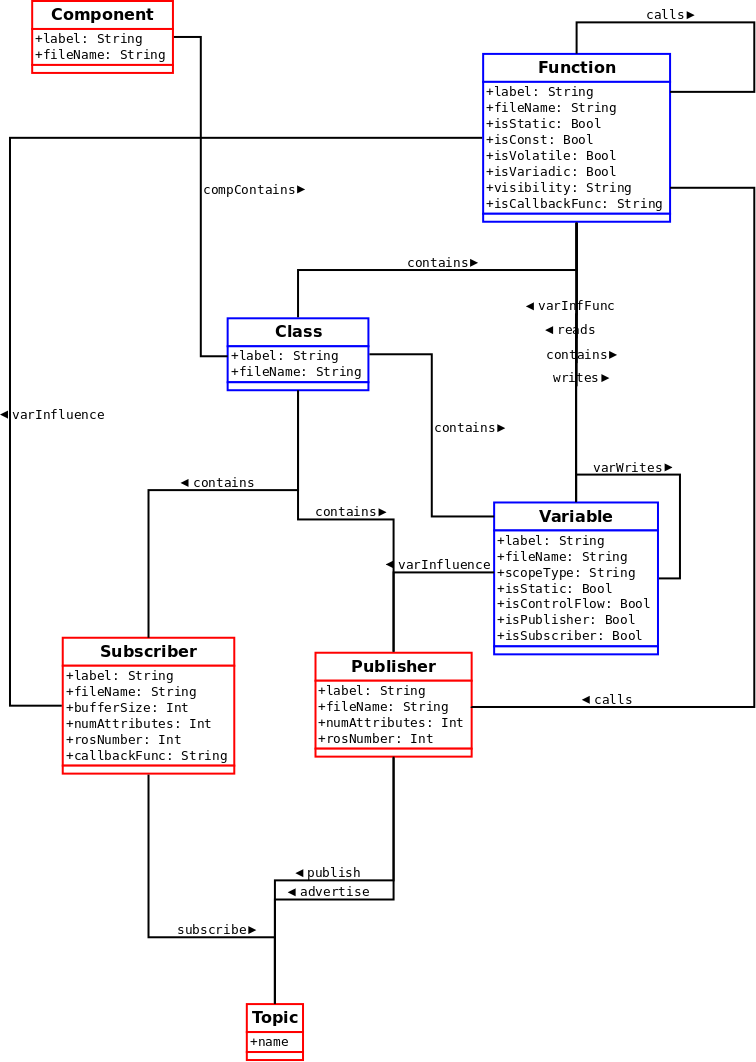
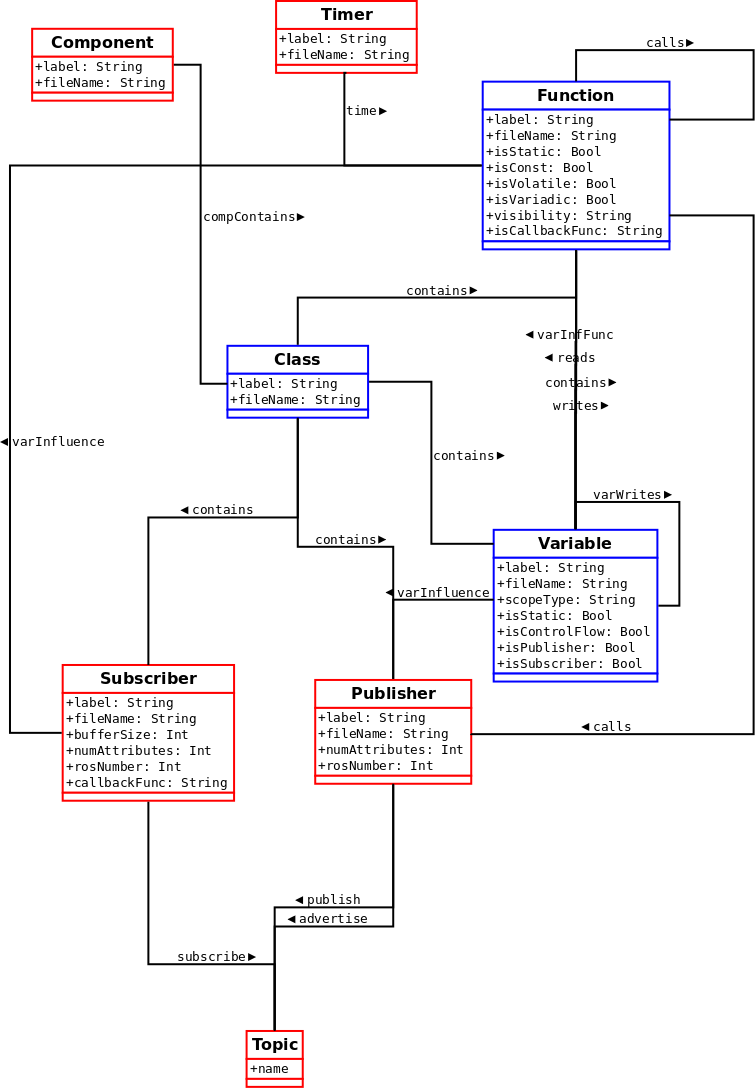
Updated Rex schema.

diff --git a/Graph/TAGraph.h b/Graph/TAGraph.h
@@ -90,39 +90,39 @@ private:
             "$INHERIT\tcArchitecturalNds\tcRoot\n$INHERIT\tcAsgNds\t\t\tcRoot\n$INHERIT\trosMsg\t\t\tcRoot\n$INHERIT\tc"
             "Component\t\tcAsgNds\n$INHERIT\tcClass\t\t\tcAsgNds\n$INHERIT\tcFunction\t\tcAsgNds\n$INHERIT\tcVariable\t"
             "\tcAsgNds\n$INHERIT\trosTopic\t\trosMsg\n$INHERIT\trosPublisher\t\trosMsg\n$INHERIT\trosSubscriber\t\trosM"
-            "sg\n$INHERIT\trosNodeHandle\t\trosMsg\n\n//Relationships\ncompContain\tcComponent\tcClass\ncontain\t\tcRoo"
-            "t\t\tcRoot\npublish\t\trosPublisher\trosTopic\nsubscribe\trosTopic\trosSubscriber\nreference\trosNodeHandl"
-            "e\trosMsg\nadvertise\trosPublisher\trosTopic\ncall\t\tcRoot\t\tcRoot\nwrite\t\tcFunction\tcVariable\nread"
-            "\t\tcVariable\tcFunction\t\t\nvarWrite\tcVariable\tcVariable\nvarInfluence\tcVariable\trosMsg\nvarInfFunc"
-            "\tcVariable\tcFunction\n\nSCHEME ATTRIBUTE :\n$ENTITY {\n\tx\n\ty\n\twidth\n\theight\n\tlabel\n}\n\ncRoot "
-            "{\n\telision = contain\n\tcolor = (0.0 0.0 0.0)\n\tfile\n\tline\n\tname\n}\n\ncAsgNds {\n\tbeg\n\tend\n\tf"
-            "ile\n\tline\n\tvalue\n\tcolor = (0.0 0.0 0.0)\n}\n\ncArchitecturalNds {\n\tclass_style = 4\n\tcolor = (0.0"
-            " 0.0 1.0)\n\tcolor = (0.0 0.0 0.0)\n}\n\nrosMsg {\n\tclass_style = 4\n\tcolor = (0.0 0.0 1.0)\n}\n\ncCompo"
-            "nent {\n\tcolor = (0.7 0.3 0.1)\n\tlabelcolor = (0.0 0.0 0.0)\n\tclass_style = 2\n}\n\ncFunction {\n\tfile"
-            "name\n\tisStatic\n\tisConst\n\tisVolatile\n\tisVariadic\n\tvisibility\n\tcolor = (1.0 0.0 0.0)\n\tlabelcol"
-            "or = (0.0 0.0 0.0)\n}\n\ncVariable {\n\tfilename\n\tscopeType\n\tisStatic\n\tisControlFlow = 0\n\tisPublis"
-            "her = 0\n\tisSubscriber = 0\n}\n\ncClass {\n\tfilename\n\tbaseNum\n\tcolor = (0.2 0.4 0.1)\n\tlabelcolor ="
-            " (0.0 0.0 0.0)\n\tclass_style = 2\n}\n\nrosSubscriber {\n\tcolor = (0.4 1.0 0.4)\n\tlabelcolor = (0.0 0.0 "
-            "0.0)\n\tclass_style = 6\n\tbufferSize\n\tnumAttributes\n\trosNumber\t\n\tcallbackFunc\n}\n\nrosPublisher {"
-            "\n\tcolor = (1.0 0.0 0.8)\n\tlabelcolor = (1.0 1.0 1.0)\n\tclass_style = 6\n\tnumAttributes\n\trosNumber\n"
-            "\tisUnderControl = 0\n}\n\nrosTopic {\n\tcolor = (1.0 1.0 0.6)\n\tlabelcolor = (0.0 0.0 0.0)\n\tclass_styl"
-            "e = 5\n}\n\n(call) {\n\tisUnderControl = 0\n}\n";
+            "sg\n$INHERIT\trosNodeHandle\t\trosMsg\n$INHERIT\trosTimer\t\trosMsg\n\n//Relationships\ncompContain\tcComp"
+            "onent\tcClass\ncontain\t\tcRoot\t\tcRoot\npublish\t\trosPublisher\trosTopic\nsubscribe\trosTopic\trosSubsc"
+            "riber\nreference\trosNodeHandle\trosMsg\nadvertise\trosPublisher\trosTopic\ncall\t\tcRoot\t\tcRoot\nwrite"
+            "\t\tcFunction\tcVariable\nread\t\tcVariable\tcFunction\t\t\nvarWrite\tcVariable\tcVariable\nvarInfluence\t"
+            "cVariable\trosMsg\nvarInfFunc\tcVariable\tcFunction\ntime\t\trosTimer\tcFunction\n\nSCHEME ATTRIBUTE :\n$E"
+            "NTITY {\n\tx\n\ty\n\twidth\n\theight\n\tlabel\n}\n\ncRoot {\n\telision = contain\n\tcolor = (0.0 0.0 0.0)"
+            "\n\tfile\n\tline\n\tname\n}\n\ncAsgNds {\n\tbeg\n\tend\n\tfile\n\tline\n\tvalue\n\tcolor = (0.0 0.0 0.0)\n"
+            "}\n\ncArchitecturalNds {\n\tclass_style = 4\n\tcolor = (0.0 0.0 1.0)\n\tcolor = (0.0 0.0 0.0)\n}\n\nrosMsg"
+            " {\n\tclass_style = 4\n\tcolor = (0.0 0.0 1.0)\n}\n\ncComponent {\n\tcolor = (0.7 0.3 0.1)\n\tlabelcolor ="
+            " (0.0 0.0 0.0)\n\tclass_style = 2\n}\n\ncFunction {\n\tfilename\n\tisStatic\n\tisConst\n\tisVolatile\n\tis"
+            "Variadic\n\tvisibility\n\tcolor = (1.0 0.0 0.0)\n\tlabelcolor = (0.0 0.0 0.0)\n}\n\ncVariable {\n\tfilenam"
+            "e\n\tscopeType\n\tisStatic\n\tisControlFlow = 0\n\tisPublisher = 0\n\tisSubscriber = 0\n}\n\ncClass {\n\tf"
+            "ilename\n\tbaseNum\n\tcolor = (0.2 0.4 0.1)\n\tlabelcolor = (0.0 0.0 0.0)\n\tclass_style = 2\n}\n\nrosSubs"
+            "criber {\n\tcolor = (0.4 1.0 0.4)\n\tlabelcolor = (0.0 0.0 0.0)\n\tclass_style = 6\n\tbufferSize\n\tnumAtt"
+            "ributes\n\trosNumber\t\n\tcallbackFunc\n}\n\nrosPublisher {\n\tcolor = (1.0 0.0 0.8)\n\tlabelcolor = (1.0 "
+            "1.0 1.0)\n\tclass_style = 6\n\tnumAttributes\n\trosNumber\n\tisUnderControl = 0\n}\n\nrosTopic {\n\tcolor "
+            "= (1.0 1.0 0.6)\n\tlabelcolor = (0.0 0.0 0.0)\n\tclass_style = 5\n}\n\n(call) {\n\tisUnderControl = 0\n}\n";
     std::string const MINI_TA_SCHEMA = "//Minimal Rex Extraction\n//Author: Bryan J Muscedere\n\nSCHEME TUPLE :\n//Node"
             "s\n$INHERIT\tcArchitecturalNds\tcRoot\n$INHERIT\tcAsgNds\t\t\tcRoot\n$INHERIT\trosMsg\t\t\tcRoot\n$INHERIT"
             "\tcComponent\t\tcAsgNds\n$INHERIT\tcClass\t\t\tcAsgNds\n$INHERIT\trosTopic\t\trosMsg\n$INHERIT\trosPublish"
-            "er\t\trosMsg\n$INHERIT\trosSubscriber\t\trosMsg\n$INHERIT\trosNodeHandle\t\trosMsg\n\n//Relationships\ncom"
-            "pContain\tcComponent\tcClass\ncontain\t\tcRoot\t\tcRoot\npublish\t\trosPublisher\trosTopic\nsubscribe\tros"
-            "Topic\trosSubscriber\nreference\trosNodeHandle\trosMsg\nadvertise\trosPublisher\trosTopic\nsubscribe\trosS"
-            "ubscriber\trosTopic\n\nSCHEME ATTRIBUTE :\n$ENTITY {\n\tx\n\ty\n\twidth\n\theight\n\tlabel\n}\n\ncRoot {\n"
-            "\telision = contain\n\tcolor = (0.0 0.0 0.0)\n\tfile\n\tline\n\tname\n}\n\ncAsgNds {\n\tbeg\n\tend\n\tfile"
-            "\n\tline\n\tvalue\n\tcolor = (0.0 0.0 0.0)\n}\n\ncArchitecturalNds {\n\tclass_style = 4\n\tcolor = (0.0 0."
-            "0 1.0)\n\tcolor = (0.0 0.0 0.0)\n}\n\nrosMsg {\n\tclass_style = 4\n\tcolor = (0.0 0.0 1.0)\n}\n\ncComponen"
-            "t {\n\tcolor = (0.7 0.3 0.1)\n\tlabelcolor = (0.0 0.0 0.0)\n\tclass_style = 2\n}\n\ncClass {\n\tfilename\n"
-            "\tbaseNum\n\tcolor = (0.2 0.4 0.1)\n\tlabelcolor = (0.0 0.0 0.0)\n\tclass_style = 2\n}\n\nrosSubscriber {"
-            "\n\tcolor = (0.4 1.0 0.4)\n\tlabelcolor = (0.0 0.0 0.0)\n\tclass_style = 6\n\tbufferSize\n\tnumAttributes"
-            "\n\trosNumber\t\n\tcallbackFunc\n}\n\nrosPublisher {\n\tcolor = (1.0 0.0 0.8)\n\tlabelcolor = (1.0 1.0 1.0"
-            ")\n\tclass_style = 6\n\tnumAttributes\n\trosNumber\n}\n\nrosTopic {\n\tcolor = (1.0 1.0 0.6)\n\tlabelcolor"
-            " = (0.0 0.0 0.0)\n\tclass_style = 5\n}\n";
+            "er\t\trosMsg\n$INHERIT\trosSubscriber\t\trosMsg\n$INHERIT\trosNodeHandle\t\trosMsg\n$INHEIRT\trosTimer\t\t"
+            "rosMsg\n\n//Relationships\ncompContain\tcComponent\tcClass\ncontain\t\tcRoot\t\tcRoot\npublish\t\trosPubli"
+            "sher\trosTopic\nsubscribe\trosTopic\trosSubscriber\nreference\trosNodeHandle\trosMsg\nadvertise\trosPublis"
+            "her\trosTopic\nsubscribe\trosSubscriber\trosTopic\n\nSCHEME ATTRIBUTE :\n$ENTITY {\n\tx\n\ty\n\twidth\n\th"
+            "eight\n\tlabel\n}\n\ncRoot {\n\telision = contain\n\tcolor = (0.0 0.0 0.0)\n\tfile\n\tline\n\tname\n}\n\nc"
+            "AsgNds {\n\tbeg\n\tend\n\tfile\n\tline\n\tvalue\n\tcolor = (0.0 0.0 0.0)\n}\n\ncArchitecturalNds {\n\tclas"
+            "s_style = 4\n\tcolor = (0.0 0.0 1.0)\n\tcolor = (0.0 0.0 0.0)\n}\n\nrosMsg {\n\tclass_style = 4\n\tcolor ="
+            " (0.0 0.0 1.0)\n}\n\ncComponent {\n\tcolor = (0.7 0.3 0.1)\n\tlabelcolor = (0.0 0.0 0.0)\n\tclass_style = "
+            "2\n}\n\ncClass {\n\tfilename\n\tbaseNum\n\tcolor = (0.2 0.4 0.1)\n\tlabelcolor = (0.0 0.0 0.0)\n\tclass_st"
+            "yle = 2\n}\n\nrosSubscriber {\n\tcolor = (0.4 1.0 0.4)\n\tlabelcolor = (0.0 0.0 0.0)\n\tclass_style = 6\n"
+            "\tbufferSize\n\tnumAttributes\n\trosNumber\t\n\tcallbackFunc\n}\n\nrosPublisher {\n\tcolor = (1.0 0.0 0.8)"
+            "\n\tlabelcolor = (1.0 1.0 1.0)\n\tclass_style = 6\n\tnumAttributes\n\trosNumber\n}\n\nrosTopic {\n\tcolor "
+            "= (1.0 1.0 0.6)\n\tlabelcolor = (0.0 0.0 0.0)\n\tclass_style = 5\n}\n\n";
 
     int const MD5_LENGTH = 33;
 

diff --git a/Walker/ParentWalker.cpp b/Walker/ParentWalker.cpp
@@ -1117,7 +1117,7 @@ void ParentWalker::recordTimer(const CallExpr* expr){
     //Finally, adds in the callback function.
     RexEdge* callbackEdge;
     if (callback){
-        callbackEdge = new RexEdge(currentTimer, callback, RexEdge::CALLS);
+        callbackEdge = new RexEdge(currentTimer, callback, RexEdge::SET_TIME);
     } else {
         //Remove the & at the beginning.
         string callback = timerArgs[1];
@@ -1125,7 +1125,7 @@ void ParentWalker::recordTimer(const CallExpr* expr){
             callback = callback.erase(0, 1);
         }
 
-        callbackEdge = new RexEdge(currentTimer, callback, RexEdge::CALLS);
+        callbackEdge = new RexEdge(currentTimer, callback, RexEdge::SET_TIME);
     }
     graph->addEdge(callbackEdge);
 
